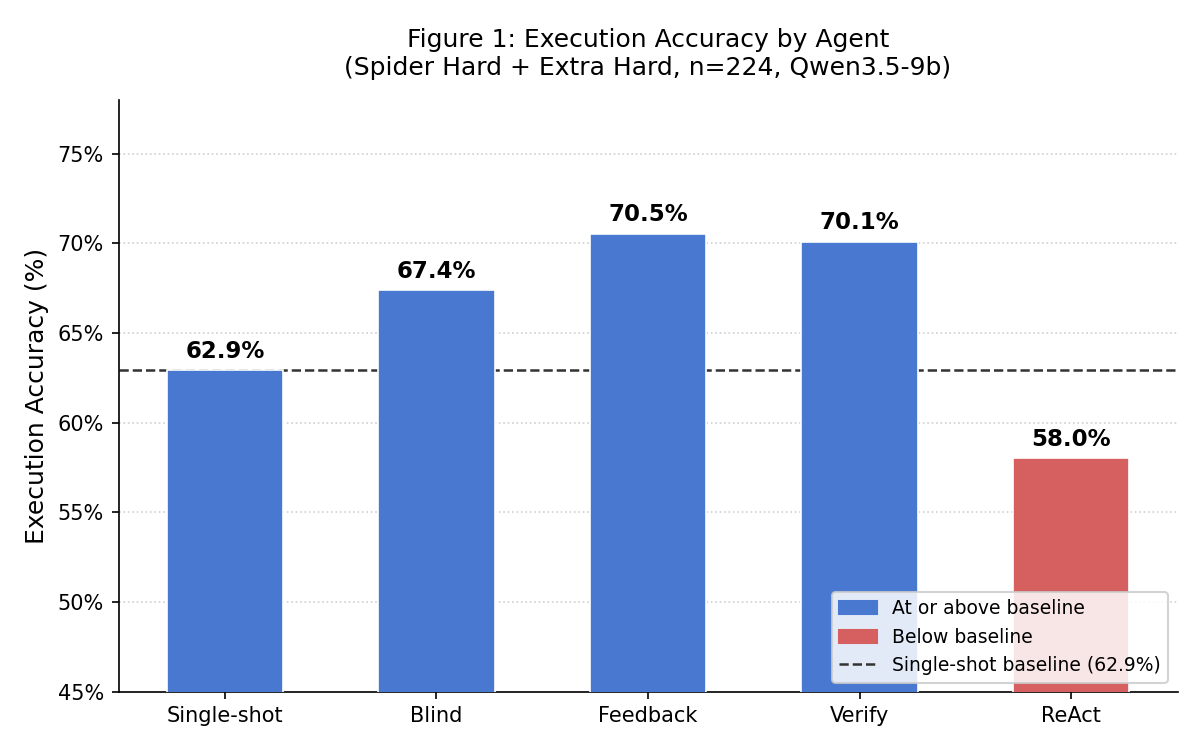
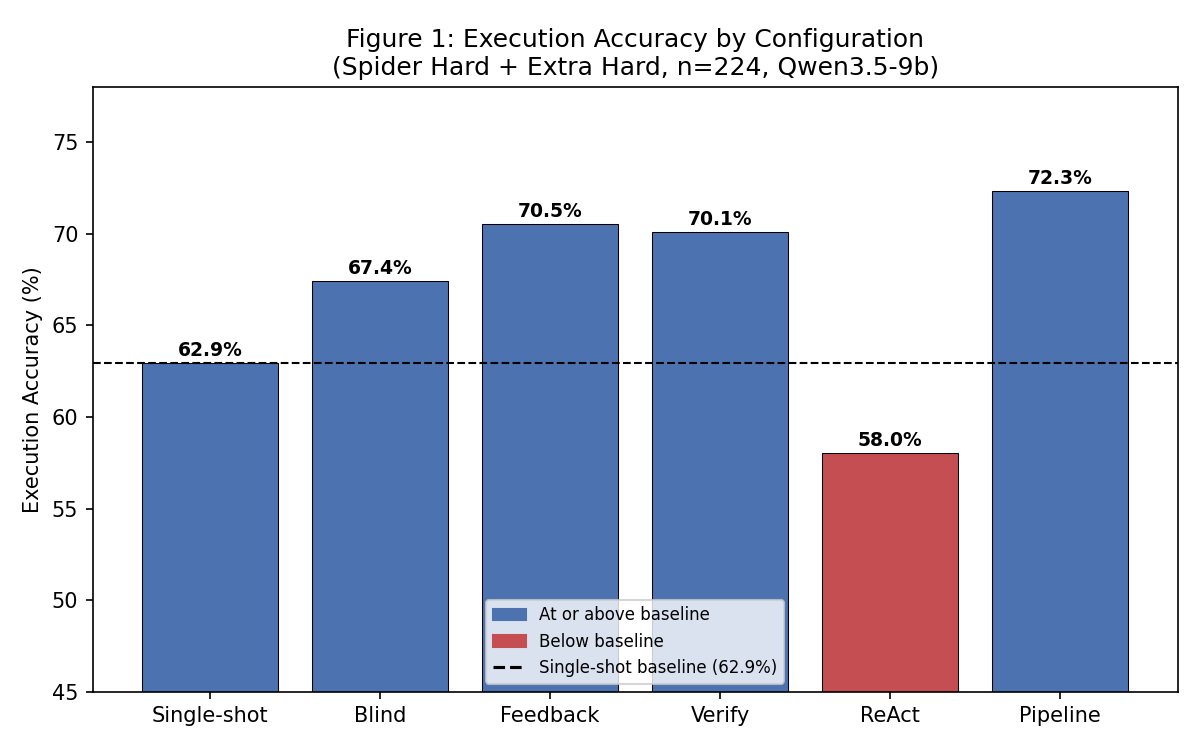
Add pipeline (Exp 005, 72.3%) to report and week 7 notes
- report.md: six configurations; pipeline as new best (72.3%, +1.8pp
  over feedback); abstract/intro/method/results/conclusion updated;
  wrong-result ceiling reframed (66 to 61) with the 13-column-order /
  53-logical-error split from re-executing the failures.
- Figure 1 regenerated with six bars (pipeline highest, ReAct lowest).
- week7 notes: Final Benchmark Plan now prose (objective/baselines/
  proposed methods per advisor feedback); pipeline added; error-analysis
  updated with the 13-vs-53 finding.

diff --git a/report/report.md b/report/report.md
@@ -1,8 +1,8 @@
-# Does Execution Feedback Help? A Five-Way Study of Text-to-SQL Agents on Spider
+# Does Execution Feedback Help? A Study of Correction and Tool-Use Mechanisms for Text-to-SQL on Spider
 
 ## Abstract
 
-We evaluate five text-to-SQL agents on the Spider Hard and Extra Hard subset (n = 224) using Qwen3.5-9b as the backbone model. A feedback loop that retries on execution errors achieves the highest execution accuracy at 70.5% (+7.6 pp over single-shot baseline). Blind self-correction reaches 67.4% without execution access. A verify-and-revise agent that checks returned rows against the question nearly ties the feedback loop at 70.1% but makes 2.71 API calls per example versus ~1.2 for the feedback loop. A ReActAgent with four tools and OpenAI function calling drops below the single-shot baseline at 58.0% (−4.9 pp). Analysis shows that execution feedback eliminates all runtime errors but converts them into silent wrong-result failures; 66 of 224 examples remain incorrect under the best-performing agent and no agent in this study could close that gap.
+We evaluate six text-to-SQL configurations on the Spider Hard and Extra Hard subset (n = 224) using Qwen3.5-9b as the backbone model. A feedback loop that retries on execution errors reaches 70.5% execution accuracy (+7.6 pp over the single-shot baseline). Blind self-correction reaches 67.4% without execution access. A verify-and-revise agent that checks returned rows against the question nearly ties the feedback loop at 70.1% but makes 2.71 API calls per example versus ~1.2 for the feedback loop. A ReActAgent with four tools and OpenAI function calling drops below the single-shot baseline at 58.0% (−4.9 pp). Chaining error feedback, blind review, and verification into an explicit pipeline gives the best result at 72.3% (+1.8 pp over the feedback loop), though the gain is modest. Analysis shows that execution feedback eliminates all runtime errors but converts them into silent wrong-result failures; the pipeline narrows these from 66 to 61 of 224 examples but does not close the gap, because the remaining failures are logical errors — and, in 13 cases, correct results scored wrong only because their columns are returned in a different order.
 
 ## 1. Introduction
 
@@ -10,7 +10,7 @@ Large language models can translate natural language questions into SQL with imp
 
 One proposed remedy is the execution feedback loop: generate SQL, execute it against the target database, observe the result or error, and revise. If the query raises a runtime error, the error message is a concrete, actionable signal the model can act on. A weaker alternative is blind self-correction: ask the model to review its own output without executing it, in the style of DIN-SQL's self-review pass. This study asks which signal — execution error, blind review, or no feedback at all — translates into measurable accuracy gains on hard queries.
 
-We evaluate five agents on the Spider Hard and Extra Hard subsets using the same model and prompt. The feedback loop raises execution accuracy (EX) by 7.6 percentage points over the single-shot baseline; blind self-correction gains 4.5 percentage points. A verify-and-revise agent nearly matches the feedback loop (70.1% vs 70.5%) at higher cost. A ReActAgent with four tools (function calling) underperforms single-shot (58.0%), suggesting that autonomous tool use does not pay off on clean Spider schemas with this model. The analysis reveals a ceiling: execution feedback eliminates all runtime errors but converts them into silent wrong-result failures, which no agent in this study could fix without richer output-level feedback.
+We evaluate six configurations on the Spider Hard and Extra Hard subsets using the same model and prompt. The feedback loop raises execution accuracy (EX) by 7.6 percentage points over the single-shot baseline; blind self-correction gains 4.5 percentage points. A verify-and-revise agent nearly matches the feedback loop (70.1% vs 70.5%) at higher cost. A ReActAgent with four tools (function calling) underperforms single-shot (58.0%), suggesting that autonomous tool use does not pay off on clean Spider schemas with this model. Chaining feedback, blind review, and verification into an explicit pipeline gives the best result (72.3%), but only +1.8pp over the feedback loop. The analysis reveals a ceiling: execution feedback eliminates all runtime errors but converts them into silent wrong-result failures, which even the pipeline only narrows (66 to 61) rather than closes.
 
 ## 2. Related Work
 
@@ -40,7 +40,9 @@ The agent is structured around three components. `SQLExecutor` (src/tools.py) wr
 
 `ReActAgent` uses OpenAI function calling to give the LLM autonomous access to four tools: `execute_sql`, `sample_rows`, `describe_table`, and `get_distinct_values`. The model decides which tools to call and when to stop exploring and return SQL. Before returning the final SQL, the agent executes it; if it errors, it falls back to the last clean `execute_sql` result from the tool loop.
 
-All five agents use the same model, system prompt, and schema formatter. They differ in whether and how feedback is provided, and whether the LLM can invoke tools autonomously.
+`PipelineAgent` chains three mechanisms into one explicit flow with a fixed order and separate budgets, so they do not compete for a shared retry counter: (1) error feedback — generate and retry on execution errors; (2) blind review — one self-review pass over the clean SQL; (3) verify — one verifier call on the returned rows, with one revision if it says NO. A per-example `stage_changed` field records which stage, if any, altered the final query.
+
+All six configurations use the same model, system prompt, and schema formatter. They differ in whether and how feedback is provided, whether the LLM can invoke tools autonomously, and whether mechanisms are combined.
 
 ## 5. Experimental Setup
 
@@ -52,7 +54,7 @@ All five agents use the same model, system prompt, and schema formatter. They di
 
 ## 6. Results
 
-![Figure 1: Execution accuracy by agent on Spider Hard + Extra Hard (n=224). Dashed line marks the single-shot baseline at 62.9%. ReAct bar shown in red.](figures/fig1_ex_by_agent.png)
+![Figure 1: Execution accuracy by configuration on Spider Hard + Extra Hard (n=224). Dashed line marks the single-shot baseline at 62.9%. The pipeline is best (72.3%); ReAct, in red, is the only condition below baseline.](figures/fig1_ex_by_agent.png)
 
 **Table 1. Main results.**
 
@@ -63,6 +65,9 @@ All five agents use the same model, system prompt, and schema formatter. They di
 | Feedback loop | execute_sql | 158/224 | 70.5% | +7.6pp |
 | Verify-and-revise | execute_sql | 157/224 | 70.1% | +7.2pp |
 | ReActAgent | execute_sql, sample_rows, describe_table, get_distinct_values | 130/224 | 58.0% | −4.9pp |
+| Pipeline (feedback + blind + verify) | execute_sql | 162/224 | 72.3% | +9.4pp |
+
+The pipeline chains three mechanisms in a fixed order — error feedback, then a blind review pass, then result verification — each with its own budget. It is the best-performing condition at 72.3%, +1.8pp over the feedback loop alone. The gain is real but modest: the three stages changed 65 SQL queries in total (29 from error feedback, 18 from blind review, 18 from verification) for a net improvement of only +4 examples over the feedback loop (+11 fixed, −7 regressed), and it narrows the wrong-result count from 66 to 61 rather than closing it.
 
 **By hardness.**
 
@@ -119,7 +124,7 @@ Future work should explore three directions. First, running the same comparison 
 
 ## 9. Conclusion
 
-On clean Spider schemas with a small model, execution feedback is the most efficient correction mechanism: the feedback loop reaches 70.5% EX at roughly 1.2 API calls per example, a 7.6 pp gain over single-shot. Blind self-correction adds 4.5 pp without any execution access, at a higher call count. Verify-and-revise ties the feedback loop at 70.1% but costs 2.71 calls per example, with near-zero net benefit from the verification layer — the verifier catches only 3 previously wrong examples while adding 24 false-positive revisions on already-correct results. ReActAgent with four tools drops below single-shot (58.0%), showing that autonomous tool use over a clean schema hurts rather than helps on this task and model. The fundamental obstacle is not syntactic: after the feedback loop eliminates all runtime errors, 66 of 224 examples remain wrong due to logical mistakes the model cannot diagnose from an error message alone. Closing that gap requires output-level feedback that goes beyond what execution errors or a small-model verifier reading 10 rows can provide.
+On clean Spider schemas with a small model, execution feedback is the most efficient correction mechanism: the feedback loop reaches 70.5% EX at roughly 1.2 API calls per example, a 7.6 pp gain over single-shot. Blind self-correction adds 4.5 pp without any execution access, at a higher call count. Verify-and-revise ties the feedback loop at 70.1% but costs 2.71 calls per example, with near-zero net benefit from the verification layer — the verifier catches only 3 previously wrong examples while adding 24 false-positive revisions on already-correct results. ReActAgent with four tools drops below single-shot (58.0%), showing that autonomous tool use over a clean schema hurts rather than helps on this task and model. Chaining error feedback, blind review, and verification into an explicit pipeline gives the best overall result (72.3%, +1.8 pp over feedback alone), but the gain is modest and shows diminishing returns: three stages altered 65 queries for a net of only +4 correct. The fundamental obstacle is not syntactic: after error feedback eliminates all runtime errors, the pipeline still leaves 61 of 224 examples wrong, and re-executing those failures shows 13 are correct results scored wrong only for column ordering while the rest are genuine logical mistakes — wrong-table joins and incorrect subquery logic — that no execution error, verifier, or value-inspecting tool can diagnose. Closing that gap requires either a less brittle evaluation metric or output-level feedback that compares against the expected result.
 
 ## References
 

diff --git a/notes/week7/reading_notes.md b/notes/week7/reading_notes.md
@@ -42,35 +42,30 @@ Static datasets (Spider 1.0, BIRD — my setting) give the model a fixed (questi
 
 ## Final Benchmark Plan
 
-My benchmark is already built and run; this documents its final form.
+### Objective
 
-**Dataset / subset.** Spider 1.0 development set, filtered to Hard + Extra Hard (n = 224: 148 Hard, 76 Extra Hard). Single-turn, clean small schemas (~27 cols) — deliberately the tractable, static end of the difficulty curve, chosen to isolate correction/tool mechanisms rather than chase enterprise or interactive difficulty.
+The goal of this benchmark is not to top a leaderboard but to isolate a single question: on clean, small database schemas, how much does each correction or tool-use mechanism actually contribute to text-to-SQL accuracy, and where does each one stop helping? Because every method is run on the same questions, the same schema, the same model, and the same prompt, any difference in accuracy is attributable to the mechanism alone rather than to prompt engineering, model choice, or dataset difficulty. In particular the study aims to measure the value of execution feedback — running the query and feeding back the database's error — and to test whether layering verification or autonomous tool use on top of that feedback buys anything further.
 
-**Methods to compare (5 agents, same model Qwen3.5-9b, same prompt, zero-shot).**
-- Single-shot (no correction) — baseline
-- Blind self-correction (review without executing) — DIN-SQL-style
-- Feedback loop (execute → read error → revise) — the core mechanism
-- Verify-and-revise (execute → verify returned rows → revise) — targets the wrong-result ceiling
-- ReAct (4 tools via function calling, LLM-driven) — targets the "add tools" question
+### Dataset
 
-**Metrics.** Primary: Execution Accuracy (EX), order-independent frozenset match of result rows. Secondary, per agent: execution_error vs wrong_result counts; tool-call counts (ReAct); per-example fixes/regressions vs the feedback loop; verifier precision/recall (verify).
+Evaluation uses the Spider 1.0 development set restricted to the Hard and Extra Hard subsets (n = 224: 148 Hard, 76 Extra Hard). Spider is chosen for its clean, small, synthetic schemas (~27 columns per database), which keep failures structural rather than value-interpretation noise and let the full schema fit in the prompt. The Hard subset is chosen because easy questions are already solved by a single call and carry no diagnostic signal, whereas the hard structures — nested subqueries, GROUP BY, HAVING, joins, and set operations — are exactly where correction mechanisms are expected to differ. This is deliberately the static, tractable end of the difficulty curve; enterprise scale (Spider 2.0) and interactive settings (BIRD-INTERACT) are out of scope.
 
-**Expected tables & figures.**
-- Table 1 — EX for all 5 agents with tool column and Δ vs single-shot.
-- Table 2 — EX by hardness (Hard / Extra Hard) × 5 agents.
-- Table 3 — EX by SQL pattern (nested / JOIN / NOT IN / GROUP BY / INTERSECT / EXCEPT / ORDER BY / HAVING / UNION).
-- Table 4 — failure breakdown (execution_error vs wrong_result) across 5 agents.
-- Figure 1 — the correction-mechanism ladder (single → blind → feedback → verify → ReAct) as a bar chart, showing the rise to feedback and the drop at ReAct.
+### Baselines
 
-**Error-analysis categories.**
-1. `execution_error` — SQL raised (syntactic/schema).
-2. `wrong_result` — ran cleanly but wrong rows (the logical/silent class; my ceiling).
-3. By SQL pattern (which structures each mechanism fixes vs. can't touch).
-4. Verify-specific: genuine fixes vs false-positive NO calls on already-correct results (3 vs 24).
-5. ReAct-specific: exploration-SQL-returned-as-final-answer.
+Two conditions serve as baselines that never touch the database. The **single-shot** agent generates one query and returns it, establishing the floor against which every other method is measured. **Blind self-correction** generates a query and then reviews and revises it against the schema and question without ever executing it, in the style of DIN-SQL's self-review pass; it isolates how far a model can improve on pure self-inspection, with no execution signal.
 
-**Risks / scope reductions if time is limited.**
-- Single model (Qwen3.5-9b); a second model (GPT-4o-mini) is the first thing to cut/defer.
-- Simplified hardness classifier (not Spider's official one) may misclassify boundary cases.
-- Run-to-run non-determinism at temperature 0 slightly blurs cross-agent per-example comparisons; report only causal (flagged) differences.
-- Out of scope for a solo project: BIRD/Spider 2.0 scale, and any multi-turn/interactive (clarification, user simulation) setting — noted as future work, not attempted.
+### Proposed Methods
+
+Three methods extend the baselines by giving the agent access to the database or to tools — the element the baselines lack. The **feedback loop** executes the query, and on a runtime error feeds the error message back and retries; this is the core mechanism the study is built around. **Verify-and-revise** goes one step further: after a clean execution it asks a separate verifier call whether the returned rows actually answer the question, targeting the logical errors that error-only feedback cannot see. **ReAct** gives the model four tools through function calling (`execute_sql`, `sample_rows`, `describe_table`, `get_distinct_values`) and lets it decide autonomously when to call them, testing whether autonomous tool use adds value on clean schemas. Finally, a **pipeline** chains three of these mechanisms into one explicit flow — error feedback, then a blind review pass, then result verification — with each stage given its own budget so they do not compete for a single shared retry counter. This directly tests whether combining the mechanisms recovers more than the strongest one alone.
+
+### Metrics
+
+The primary metric is execution accuracy (EX): predicted and gold SQL are executed and their result rows compared as order-independent sets. Secondary, per-agent measures characterise *how* each method succeeds or fails: the split between execution errors and wrong-result failures, average API/tool calls per example (to weigh cost against accuracy), per-example fixes and regressions relative to the feedback loop, and verifier precision and recall for the verify agent. Results are reported overall, by hardness level, and by SQL pattern, and summarised in a bar chart of EX across all conditions (Figure 1).
+
+### Error Analysis
+
+Failures are categorised first by type — `execution_error` (the query raised, i.e. syntactic or schema errors) versus `wrong_result` (the query ran cleanly but returned the wrong rows, the silent logical class that forms the accuracy ceiling) — and then by SQL pattern, to show which structures each mechanism can and cannot fix. Two method-specific categories capture the most informative failures: for verify-and-revise, the split between genuine fixes and false-positive flags on already-correct results (3 versus 24); and for ReAct, cases where the agent returns an exploration query as its final answer instead of one that answers the question. Re-executing the 66 wrong-result cases left by the feedback loop reveals a further split: 13 are false negatives where the predicted result is correct but its columns are returned in a different order than the gold query, so the strict set-based match scores them wrong; the remaining 53 are genuine logical errors, dominated by wrong-table joins and incorrect subquery logic. This matters for the pipeline decision: none of the available tools (which inspect values and column names) can fix wrong-table joins or subquery logic, so the pipeline combines feedback, blind review, and verification rather than adding tools — and even so it only narrows the ceiling slightly (66 to 61 wrong-result), confirming that the remaining errors are logical, not mechanical.
+
+### Risks and Scope Reductions
+
+The main limitation is that all results come from a single model (Qwen3.5-9b); repeating the comparison on a second model such as GPT-4o-mini would be the first extension if time allowed, and is the first thing to defer if not. The hardness labels come from a simplified reimplementation of Spider's classifier, so boundary cases may be misclassified. Because temperature-0 decoding is not perfectly deterministic across runs, per-example cross-agent comparisons are blurred slightly, so only causally attributable differences are emphasised. Enterprise scale and any multi-turn or interactive setting are out of scope for a solo project and are noted as future work rather than attempted.
